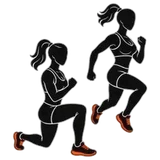
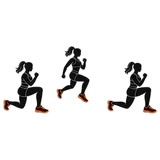
Sieben neue Übungsbilder (185, 255, 283, 286, 314, Floor Press, Jump Lunges mit drei Posen): alle 329 Übungen haben ein Bild (Fassung 2026-10-31-6)

diff --git a/fotos.js b/fotos.js
@@ -1,2 +1,2 @@
 /* Übungsbilder: img/ex/<id>.webp (Vorschau img/ex/t/<id>.webp). Nur Übungen in dieser Liste haben ein Bild; ohne Eintrag bleibt es bei der Strichfigur. */
-var EX_FOTO = {"burpees":1,"jump-squats":1,"mountain-climbers":1,"high-knees":1,"jumping-jacks":1,"skater-jumps":1,"jump-lunges":1,"plank-burpees":1,"burpee-squat-jumps":1,"jump-forward-squats":1,"jump-forward-burpees":1,"frogs":1,"stand-up-jumps":1,"lateral-hops":1,"fast-feet":1,"box-step-ups":1,"sprint-in-place":1,"goblet-squat":1,"kb-swing":1,"db-thruster":1,"romanian-deadlift":1,"db-deadlift":1,"bent-over-row":1,"one-arm-row":1,"shoulder-press":1,"push-press":1,"weighted-reverse-lunge":1,"front-rack-carry":1,"farmer-carry":1,"kb-clean":1,"renegade-row":1,"push-ups":1,"pike-push-ups":1,"triceps-dips":1,"squat-hold":1,"walking-lunges":1,"reverse-lunges":1,"side-lunges":1,"cossack-squats":1,"deep-squats":1,"pistol-assist":1,"plank-steps":1,"bear-crawl":1,"wall-sit":1,"calf-raises":1,"glute-bridge":1,"pull-ups":1,"negative-pull-ups":1,"inverted-rows":1,"superman-hold":1,"reverse-snow-angels":1,"bird-dog":1,"prone-y-raise":1,"prone-t-raise":1,"good-mornings":1,"swimmers":1,"scapular-push-ups":1,"scapular-pull-ups":1,"dead-hang":1,"air-squats":1,"split-squats":1,"bulgarian-split-squats":1,"forward-lunges":1,"single-leg-glute-bridge":1,"lateral-lunge-pulses":1,"plank":1,"side-plank":1,"dead-bug":1,"bicycle-crunches":1,"leg-raises":1,"jackknives":1,"reverse-crunch":1,"side-jackknives":1,"hollow-hold":1,"russian-twists":1,"sit-ups":1,"toe-touches":1,"plank-shoulder-taps":1,"toes-to-bar":1,"triceps-curls":1,"close-grip-push-ups":1,"diamond-push-ups":1,"sphinx-push-ups":1,"arm-circles":1,"leg-press":1,"leg-press-45":1,"leg-extension":1,"leg-curl":1,"adductor-machine":1,"abductor-machine":1,"calf-machine":1,"chest-press-machine":1,"butterfly":1,"pullover":1,"lat-pulldown":1,"row-machine":1,"cable-row":1,"reverse-butterfly":1,"back-extension":1,"shoulder-press-machine":1,"biceps-machine":1,"cable-curl":1,"triceps-pushdown":1,"skull-crusher":1,"ab-crunch-machine":1,"bench-press":1,"barbell-squat":1,"barbell-deadlift":1,"hack-squat":1,"smith-squat":1,"leg-press-single":1,"hip-thrust":1,"glute-kickback-cable":1,"seated-calf":1,"incline-chest-press":1,"cable-crossover":1,"incline-db-press":1,"db-fly":1,"assisted-pullup":1,"close-grip-pulldown":1,"t-bar-row":1,"barbell-row":1,"face-pull":1,"straight-arm-pulldown":1,"lateral-raise":1,"shrugs":1,"hammer-curl":1,"barbell-curl":1,"overhead-cable-triceps":1,"triceps-machine":1,"glute-machine":1,"calf-press":1,"lying-leg-curl":1,"rotary-torso":1,"back-extension-machine":1,"triceps-extension-machine":1,"lateral-raise-machine":1,"cable-lateral-raise":1,"smith-bench-press":1,"assisted-dip":1,"high-row-machine":1,"cable-crunch":1,"cable-pull-through":1,"cable-woodchop":1,"captains-chair":1,"barbell-overhead-press":1,"barbell-rdl":1,"knee-push-ups":1,"single-leg-calf-raise":1,"negative-dips":1,"pallof-press":1,"copenhagen-plank":1,"backpack-row":1,"db-bench-press":1,"db-step-ups":1,"sumo-squat-db":1,"single-leg-rdl":1,"nordic-curl":1,"neck-stretch":1,"chin-tuck":1,"shoulder-stretch":1,"triceps-stretch":1,"biceps-stretch":1,"chest-stretch":1,"wrist-stretch":1,"side-bend":1,"cat-cow":1,"thoracic-rotation":1,"childs-pose":1,"sphinx-stretch":1,"cobra-lift":1,"downward-dog":1,"spinal-twist":1,"forward-fold":1,"hip-flexor-stretch":1,"quad-stretch":1,"hamstring-stretch":1,"calf-stretch":1,"figure-four":1,"pigeon-stretch":1,"butterfly-stretch":1,"worlds-greatest":1,"chin-ups":1,"rung-pull-ups":1,"parallel-bar-dips":1,"support-hold":1,"hanging-knee-raise":1,"hanging-leg-raise":1,"hanging-l-sit":1,"l-sit":1,"windshield-wipers":1,"muscle-ups":1,"monkey-bar-traverse":1,"skin-the-cat":1,"archer-push-ups":1,"pistol-squats":1,"dragon-flags":1,"clap-push-ups":1,"tuck-jumps":1,"burpee-pull-ups":1,"band-standing-row":1,"band-bent-over-row":1,"band-lat-pull-apart":1,"band-pull-down":1,"band-assisted-pull-up":1,"band-push-ups":1,"band-chest-fly":1,"band-reverse-fly":1,"band-chest-fly-up":1,"band-chest-cross":1,"band-lateral-raise":1,"band-upright-row":1,"band-front-raise":1,"band-shoulder-press":1,"band-one-arm-press":1,"band-russian-twist":1,"band-kneeling-twist":1,"band-side-bend":1,"band-kneeling-crunch":1,"band-crunch":1,"band-hammer-curl":1,"band-one-arm-curl":1,"band-biceps-curl":1,"band-concentration-curl":1,"band-overhead-triceps":1,"band-triceps-pressdown":1,"band-side-triceps":1,"band-triceps-kickback":1,"band-overhead-extension":1,"band-clamshell":1,"band-leg-abduction":1,"band-single-leg-deadlift":1,"band-glute-bridge":1,"band-donkey-kick":1,"band-squat":1,"band-prone-leg-curl":1,"band-lunge-squat":1,"band-lying-leg-press":1,"decline-db-bench":1,"around-world-pullover":1,"cable-chest-fly":1,"standing-cable-fly":1,"low-to-high-cable-fly":1,"incline-push-up":1,"deficit-push-up":1,"ring-push-up":1,"wide-grip-lat-pulldown":1,"reverse-grip-lat-pulldown":1,"rope-lat-pulldown":1,"wide-grip-cable-row":1,"underhand-cable-row":1,"one-arm-cable-row":1,"one-arm-high-cable-row":1,"chest-supported-row":1,"cambered-bar-row":1,"neutral-grip-pull-up":1,"meadows-row":1,"seated-db-shoulder-press":1,"arnold-press":1,"cable-shoulder-press":1,"lean-away-lateral-raise":1,"db-front-raise":1,"front-raise-overhead":1,"db-rear-delt-fly":1,"one-arm-rear-delt-fly":1,"seated-rear-delt-fly":1,"upright-row":1,"cuban-press":1,"db-curl":1,"alternating-db-curl":1,"close-grip-ez-curl":1,"high-cable-curl":1,"one-arm-cable-curl":1,"cross-body-hammer-curl":1,"preacher-curl":1,"hammer-preacher-curl":1,"incline-db-curl":1,"spider-curl":1,"concentration-curl":1,"zottman-curl":1,"rope-triceps-pushdown":1,"kneeling-cable-triceps-extension":1,"incline-cable-triceps-extension":1,"lying-cable-triceps-extension":1,"close-grip-db-press":1,"db-skull-crusher":1,"single-arm-skull-crusher":1,"supinated-triceps-extension":1,"ez-jm-press":1,"tate-press":1,"db-bench-squat":1,"db-clean":1,"stiff-leg-deadlift":1,"standing-cable-crunch":1,"cable-lift":1,"cable-twist":1,"cable-reverse-crunch":1,"judo-flip":1,"crunch":1,"crunch-arms-straight":1,"crunch-hands-overhead":1,"cross-body-crunch":1,"bear-plank-rockback-push-up":1,"plank-toe-touch":1,"wrist-curl":1,"reverse-curl":1,"wrist-pronation":1,"wrist-supination":1,"chin-to-chest-stretch":1,"ceiling-look-stretch":1,"cross-jacks":1,"smith-overhead-press":1,"smith-incline-press":1,"smith-bent-over-row":1,"smith-split-squat":1,"smith-hip-thrust":1,"smith-calf-raise":1,"smith-shrug":1,"front-squat":1,"pause-squat":1,"zercher-squat":1,"barbell-good-morning":1,"barbell-push-press":1};
+var EX_FOTO = {"burpees":1,"jump-squats":1,"mountain-climbers":1,"high-knees":1,"jumping-jacks":1,"skater-jumps":1,"jump-lunges":1,"plank-burpees":1,"burpee-squat-jumps":1,"jump-forward-squats":1,"jump-forward-burpees":1,"frogs":1,"stand-up-jumps":1,"lateral-hops":1,"fast-feet":1,"box-step-ups":1,"sprint-in-place":1,"goblet-squat":1,"kb-swing":1,"db-thruster":1,"romanian-deadlift":1,"db-deadlift":1,"bent-over-row":1,"one-arm-row":1,"shoulder-press":1,"push-press":1,"weighted-reverse-lunge":1,"front-rack-carry":1,"farmer-carry":1,"kb-clean":1,"renegade-row":1,"push-ups":1,"pike-push-ups":1,"triceps-dips":1,"squat-hold":1,"walking-lunges":1,"reverse-lunges":1,"side-lunges":1,"cossack-squats":1,"deep-squats":1,"pistol-assist":1,"plank-steps":1,"bear-crawl":1,"wall-sit":1,"calf-raises":1,"glute-bridge":1,"pull-ups":1,"negative-pull-ups":1,"inverted-rows":1,"superman-hold":1,"reverse-snow-angels":1,"bird-dog":1,"prone-y-raise":1,"prone-t-raise":1,"good-mornings":1,"swimmers":1,"scapular-push-ups":1,"scapular-pull-ups":1,"dead-hang":1,"air-squats":1,"split-squats":1,"bulgarian-split-squats":1,"forward-lunges":1,"single-leg-glute-bridge":1,"lateral-lunge-pulses":1,"plank":1,"side-plank":1,"dead-bug":1,"bicycle-crunches":1,"leg-raises":1,"jackknives":1,"reverse-crunch":1,"side-jackknives":1,"hollow-hold":1,"russian-twists":1,"sit-ups":1,"toe-touches":1,"plank-shoulder-taps":1,"toes-to-bar":1,"triceps-curls":1,"close-grip-push-ups":1,"diamond-push-ups":1,"sphinx-push-ups":1,"arm-circles":1,"leg-press":1,"leg-press-45":1,"leg-extension":1,"leg-curl":1,"adductor-machine":1,"abductor-machine":1,"calf-machine":1,"chest-press-machine":1,"butterfly":1,"pullover":1,"lat-pulldown":1,"row-machine":1,"cable-row":1,"reverse-butterfly":1,"back-extension":1,"shoulder-press-machine":1,"biceps-machine":1,"cable-curl":1,"triceps-pushdown":1,"skull-crusher":1,"ab-crunch-machine":1,"bench-press":1,"barbell-squat":1,"barbell-deadlift":1,"hack-squat":1,"smith-squat":1,"leg-press-single":1,"hip-thrust":1,"glute-kickback-cable":1,"seated-calf":1,"incline-chest-press":1,"cable-crossover":1,"incline-db-press":1,"db-fly":1,"assisted-pullup":1,"close-grip-pulldown":1,"t-bar-row":1,"barbell-row":1,"face-pull":1,"straight-arm-pulldown":1,"lateral-raise":1,"shrugs":1,"hammer-curl":1,"barbell-curl":1,"overhead-cable-triceps":1,"triceps-machine":1,"glute-machine":1,"calf-press":1,"lying-leg-curl":1,"rotary-torso":1,"back-extension-machine":1,"triceps-extension-machine":1,"lateral-raise-machine":1,"cable-lateral-raise":1,"smith-bench-press":1,"assisted-dip":1,"high-row-machine":1,"cable-crunch":1,"cable-pull-through":1,"cable-woodchop":1,"captains-chair":1,"barbell-overhead-press":1,"barbell-rdl":1,"knee-push-ups":1,"single-leg-calf-raise":1,"negative-dips":1,"pallof-press":1,"copenhagen-plank":1,"backpack-row":1,"db-bench-press":1,"db-step-ups":1,"sumo-squat-db":1,"single-leg-rdl":1,"nordic-curl":1,"neck-stretch":1,"chin-tuck":1,"shoulder-stretch":1,"triceps-stretch":1,"biceps-stretch":1,"chest-stretch":1,"wrist-stretch":1,"side-bend":1,"cat-cow":1,"thoracic-rotation":1,"childs-pose":1,"sphinx-stretch":1,"cobra-lift":1,"downward-dog":1,"spinal-twist":1,"forward-fold":1,"hip-flexor-stretch":1,"quad-stretch":1,"hamstring-stretch":1,"calf-stretch":1,"figure-four":1,"pigeon-stretch":1,"butterfly-stretch":1,"worlds-greatest":1,"chin-ups":1,"rung-pull-ups":1,"parallel-bar-dips":1,"support-hold":1,"hanging-knee-raise":1,"hanging-leg-raise":1,"hanging-l-sit":1,"l-sit":1,"windshield-wipers":1,"muscle-ups":1,"monkey-bar-traverse":1,"skin-the-cat":1,"archer-push-ups":1,"pistol-squats":1,"dragon-flags":1,"clap-push-ups":1,"tuck-jumps":1,"burpee-pull-ups":1,"band-standing-row":1,"band-bent-over-row":1,"band-lat-pull-apart":1,"band-pull-down":1,"band-assisted-pull-up":1,"band-push-ups":1,"band-chest-fly":1,"band-reverse-fly":1,"band-chest-fly-up":1,"band-chest-cross":1,"band-lateral-raise":1,"band-upright-row":1,"band-front-raise":1,"band-shoulder-press":1,"band-one-arm-press":1,"band-russian-twist":1,"band-kneeling-twist":1,"band-side-bend":1,"band-kneeling-crunch":1,"band-crunch":1,"band-hammer-curl":1,"band-one-arm-curl":1,"band-biceps-curl":1,"band-concentration-curl":1,"band-overhead-triceps":1,"band-triceps-pressdown":1,"band-side-triceps":1,"band-triceps-kickback":1,"band-overhead-extension":1,"band-clamshell":1,"band-leg-abduction":1,"band-single-leg-deadlift":1,"band-glute-bridge":1,"band-donkey-kick":1,"band-squat":1,"band-prone-leg-curl":1,"band-lunge-squat":1,"band-lying-leg-press":1,"decline-db-bench":1,"around-world-pullover":1,"cable-chest-fly":1,"standing-cable-fly":1,"low-to-high-cable-fly":1,"incline-push-up":1,"deficit-push-up":1,"ring-push-up":1,"wide-grip-lat-pulldown":1,"reverse-grip-lat-pulldown":1,"rope-lat-pulldown":1,"wide-grip-cable-row":1,"underhand-cable-row":1,"one-arm-cable-row":1,"one-arm-high-cable-row":1,"chest-supported-row":1,"cambered-bar-row":1,"neutral-grip-pull-up":1,"meadows-row":1,"seated-db-shoulder-press":1,"arnold-press":1,"cable-shoulder-press":1,"lean-away-lateral-raise":1,"db-front-raise":1,"front-raise-overhead":1,"db-rear-delt-fly":1,"one-arm-rear-delt-fly":1,"seated-rear-delt-fly":1,"upright-row":1,"cuban-press":1,"db-curl":1,"alternating-db-curl":1,"close-grip-ez-curl":1,"high-cable-curl":1,"one-arm-cable-curl":1,"cross-body-hammer-curl":1,"preacher-curl":1,"hammer-preacher-curl":1,"incline-db-curl":1,"spider-curl":1,"concentration-curl":1,"zottman-curl":1,"rope-triceps-pushdown":1,"kneeling-cable-triceps-extension":1,"incline-cable-triceps-extension":1,"lying-cable-triceps-extension":1,"close-grip-db-press":1,"db-skull-crusher":1,"single-arm-skull-crusher":1,"supinated-triceps-extension":1,"ez-jm-press":1,"tate-press":1,"db-bench-squat":1,"db-clean":1,"stiff-leg-deadlift":1,"standing-cable-crunch":1,"cable-lift":1,"cable-twist":1,"cable-reverse-crunch":1,"judo-flip":1,"crunch":1,"crunch-arms-straight":1,"crunch-hands-overhead":1,"cross-body-crunch":1,"bear-plank-rockback-push-up":1,"plank-toe-touch":1,"wrist-curl":1,"reverse-curl":1,"wrist-pronation":1,"wrist-supination":1,"chin-to-chest-stretch":1,"ceiling-look-stretch":1,"cross-jacks":1,"smith-overhead-press":1,"smith-incline-press":1,"smith-bent-over-row":1,"smith-split-squat":1,"smith-hip-thrust":1,"smith-calf-raise":1,"smith-shrug":1,"front-squat":1,"pause-squat":1,"zercher-squat":1,"barbell-good-morning":1,"barbell-push-press":1,"commando-pull-ups":1,"alternating-cable-row":1,"standing-concentration-curl":1,"one-arm-cable-triceps-extension":1,"plate-pinch-hold":1,"floor-press":1};

diff --git a/figuren-pruefliste.html b/figuren-pruefliste.html
@@ -13,8 +13,8 @@
 <meta name="apple-mobile-web-app-status-bar-style" content="black-translucent">
 <meta name="apple-mobile-web-app-title" content="BLOC">
 <!-- ?v= gehört zu FASSUNG in sw.js: bei jeder neuen Fassung beide ändern -->
-<link rel="stylesheet" href="./app.css?v=2026-10-31-5">
-<link rel="stylesheet" href="./layout-new.css?v=2026-10-31-5">
+<link rel="stylesheet" href="./app.css?v=2026-10-31-6">
+<link rel="stylesheet" href="./layout-new.css?v=2026-10-31-6">
 </head>
 <style>
 body{ background:#16161a; color:#eee; font:14px/1.4 system-ui,sans-serif; padding:12px; }
@@ -42,34 +42,34 @@ h1{ font-size:20px; margin:4px 0 2px; } .sub{ color:#aaa; margin-bottom:12px; }
 </head>
 <body>
 <div id="app"></div><div id="playerRoot"></div><div id="overlayRoot"></div><nav id="tabbar" class="tabbar hidden"></nav>
-<script src="./texte.js?v=2026-10-31-5"></script>
-<script src="./daten.js?v=2026-10-31-5"></script>
-<script src="./faq.js?v=2026-10-31-5"></script>
-<script src="./js/00-native.js?v=2026-10-31-5"></script>
-<script src="./js/01-basis.js?v=2026-10-31-5"></script>
-<script src="./js/02-bibliothek.js?v=2026-10-31-5"></script>
-<script src="./js/03-router.js?v=2026-10-31-5"></script>
-<script src="./js/04-start.js?v=2026-10-31-5"></script>
-<script src="./js/05-suche.js?v=2026-10-31-5"></script>
-<script src="./js/06-timer-listen.js?v=2026-10-31-5"></script>
-<script src="./js/07-studio.js?v=2026-10-31-5"></script>
-<script src="./js/08-koerperkarte.js?v=2026-10-31-5"></script>
-<script src="./js/09-studio-karte.js?v=2026-10-31-5"></script>
-<script src="./js/10-gemeinsam.js?v=2026-10-31-5"></script>
-<script src="./js/11-bibliothek-seite.js?v=2026-10-31-5"></script>
-<script src="./js/11b-katalog.js?v=2026-10-31-5"></script>
-<script src="./js/12-uebung-statistik.js?v=2026-10-31-5"></script>
-<script src="./js/13-teilen-editor.js?v=2026-10-31-5"></script>
-<script src="./js/14-einfuehrung-sicherung.js?v=2026-10-31-5"></script>
-<script src="./js/16-lauf.js?v=2026-10-31-5"></script>
-<script src="./js/17-aufwaermen-einstellungen.js?v=2026-10-31-5"></script>
-<script src="./js/18-audio.js?v=2026-10-31-5"></script>
-<script src="./js/19-timer-motor.js?v=2026-10-31-5"></script>
-<script src="./js/19a-kalender.js?v=2026-10-31-5"></script>
-<script src="./js/20-walzen-start.js?v=2026-10-31-5"></script>
-<script src="./js/21-koerper.js?v=2026-10-31-5"></script>
-<script src="./js/22-satz-training.js?v=2026-10-31-5"></script>
-<script src="./js/23-protein.js?v=2026-10-31-5"></script>
+<script src="./texte.js?v=2026-10-31-6"></script>
+<script src="./daten.js?v=2026-10-31-6"></script>
+<script src="./faq.js?v=2026-10-31-6"></script>
+<script src="./js/00-native.js?v=2026-10-31-6"></script>
+<script src="./js/01-basis.js?v=2026-10-31-6"></script>
+<script src="./js/02-bibliothek.js?v=2026-10-31-6"></script>
+<script src="./js/03-router.js?v=2026-10-31-6"></script>
+<script src="./js/04-start.js?v=2026-10-31-6"></script>
+<script src="./js/05-suche.js?v=2026-10-31-6"></script>
+<script src="./js/06-timer-listen.js?v=2026-10-31-6"></script>
+<script src="./js/07-studio.js?v=2026-10-31-6"></script>
+<script src="./js/08-koerperkarte.js?v=2026-10-31-6"></script>
+<script src="./js/09-studio-karte.js?v=2026-10-31-6"></script>
+<script src="./js/10-gemeinsam.js?v=2026-10-31-6"></script>
+<script src="./js/11-bibliothek-seite.js?v=2026-10-31-6"></script>
+<script src="./js/11b-katalog.js?v=2026-10-31-6"></script>
+<script src="./js/12-uebung-statistik.js?v=2026-10-31-6"></script>
+<script src="./js/13-teilen-editor.js?v=2026-10-31-6"></script>
+<script src="./js/14-einfuehrung-sicherung.js?v=2026-10-31-6"></script>
+<script src="./js/16-lauf.js?v=2026-10-31-6"></script>
+<script src="./js/17-aufwaermen-einstellungen.js?v=2026-10-31-6"></script>
+<script src="./js/18-audio.js?v=2026-10-31-6"></script>
+<script src="./js/19-timer-motor.js?v=2026-10-31-6"></script>
+<script src="./js/19a-kalender.js?v=2026-10-31-6"></script>
+<script src="./js/20-walzen-start.js?v=2026-10-31-6"></script>
+<script src="./js/21-koerper.js?v=2026-10-31-6"></script>
+<script src="./js/22-satz-training.js?v=2026-10-31-6"></script>
+<script src="./js/23-protein.js?v=2026-10-31-6"></script>
 <script>
 /* Figuren-Prüfliste: alle Übungen mit ihren Figuren (Pose A und B, zweite Ansicht); gelb = unsicher, rot = bekannt unzureichend (noch offen) */
 var UNSICHER = {

diff --git a/index.html b/index.html
@@ -13,8 +13,8 @@
 <meta name="apple-mobile-web-app-status-bar-style" content="black-translucent">
 <meta name="apple-mobile-web-app-title" content="BLOC">
 <!-- ?v= gehört zu FASSUNG in sw.js: bei jeder neuen Fassung beide ändern -->
-<link rel="stylesheet" href="./app.css?v=2026-10-31-5">
-<link rel="stylesheet" href="./layout-new.css?v=2026-10-31-5">
+<link rel="stylesheet" href="./app.css?v=2026-10-31-6">
+<link rel="stylesheet" href="./layout-new.css?v=2026-10-31-6">
 </head>
 <body>
 <div class="glas-bg" aria-hidden="true"><i></i></div>
@@ -23,34 +23,34 @@
 <div id="overlayRoot"></div>
 <nav id="tabbar" class="tabbar hidden" aria-label="Navigation"></nav>
 
-<script src="./texte.js?v=2026-10-31-5"></script>
-<script src="./daten.js?v=2026-10-31-5"></script>
-<script src="./fotos.js?v=2026-10-31-5"></script>
-<script src="./faq.js?v=2026-10-31-5"></script>
-<script src="./js/00-native.js?v=2026-10-31-5"></script>
-<script src="./js/01-basis.js?v=2026-10-31-5"></script>
-<script src="./js/02-bibliothek.js?v=2026-10-31-5"></script>
-<script src="./js/03-router.js?v=2026-10-31-5"></script>
-<script src="./js/04-start.js?v=2026-10-31-5"></script>
-<script src="./js/05-suche.js?v=2026-10-31-5"></script>
-<script src="./js/06-timer-listen.js?v=2026-10-31-5"></script>
-<script src="./js/07-studio.js?v=2026-10-31-5"></script>
-<script src="./js/08-koerperkarte.js?v=2026-10-31-5"></script>
-<script src="./js/09-studio-karte.js?v=2026-10-31-5"></script>
-<script src="./js/10-gemeinsam.js?v=2026-10-31-5"></script>
-<script src="./js/11-bibliothek-seite.js?v=2026-10-31-5"></script>
-<script src="./js/11b-katalog.js?v=2026-10-31-5"></script>
-<script src="./js/12-uebung-statistik.js?v=2026-10-31-5"></script>
-<script src="./js/13-teilen-editor.js?v=2026-10-31-5"></script>
-<script src="./js/14-einfuehrung-sicherung.js?v=2026-10-31-5"></script>
-<script src="./js/16-lauf.js?v=2026-10-31-5"></script>
-<script src="./js/17-aufwaermen-einstellungen.js?v=2026-10-31-5"></script>
-<script src="./js/18-audio.js?v=2026-10-31-5"></script>
-<script src="./js/19-timer-motor.js?v=2026-10-31-5"></script>
-<script src="./js/19a-kalender.js?v=2026-10-31-5"></script>
-<script src="./js/20-walzen-start.js?v=2026-10-31-5"></script>
-<script src="./js/21-koerper.js?v=2026-10-31-5"></script>
-<script src="./js/22-satz-training.js?v=2026-10-31-5"></script>
-<script src="./js/23-protein.js?v=2026-10-31-5"></script>
+<script src="./texte.js?v=2026-10-31-6"></script>
+<script src="./daten.js?v=2026-10-31-6"></script>
+<script src="./fotos.js?v=2026-10-31-6"></script>
+<script src="./faq.js?v=2026-10-31-6"></script>
+<script src="./js/00-native.js?v=2026-10-31-6"></script>
+<script src="./js/01-basis.js?v=2026-10-31-6"></script>
+<script src="./js/02-bibliothek.js?v=2026-10-31-6"></script>
+<script src="./js/03-router.js?v=2026-10-31-6"></script>
+<script src="./js/04-start.js?v=2026-10-31-6"></script>
+<script src="./js/05-suche.js?v=2026-10-31-6"></script>
+<script src="./js/06-timer-listen.js?v=2026-10-31-6"></script>
+<script src="./js/07-studio.js?v=2026-10-31-6"></script>
+<script src="./js/08-koerperkarte.js?v=2026-10-31-6"></script>
+<script src="./js/09-studio-karte.js?v=2026-10-31-6"></script>
+<script src="./js/10-gemeinsam.js?v=2026-10-31-6"></script>
+<script src="./js/11-bibliothek-seite.js?v=2026-10-31-6"></script>
+<script src="./js/11b-katalog.js?v=2026-10-31-6"></script>
+<script src="./js/12-uebung-statistik.js?v=2026-10-31-6"></script>
+<script src="./js/13-teilen-editor.js?v=2026-10-31-6"></script>
+<script src="./js/14-einfuehrung-sicherung.js?v=2026-10-31-6"></script>
+<script src="./js/16-lauf.js?v=2026-10-31-6"></script>
+<script src="./js/17-aufwaermen-einstellungen.js?v=2026-10-31-6"></script>
+<script src="./js/18-audio.js?v=2026-10-31-6"></script>
+<script src="./js/19-timer-motor.js?v=2026-10-31-6"></script>
+<script src="./js/19a-kalender.js?v=2026-10-31-6"></script>
+<script src="./js/20-walzen-start.js?v=2026-10-31-6"></script>
+<script src="./js/21-koerper.js?v=2026-10-31-6"></script>
+<script src="./js/22-satz-training.js?v=2026-10-31-6"></script>
+<script src="./js/23-protein.js?v=2026-10-31-6"></script>
 </body>
 </html>

diff --git a/sw.js b/sw.js
@@ -7,7 +7,7 @@
  */
 
 /* Einzige Stelle für die Versionsnummer - die App fragt sie per postMessage ab (Einstellungen, ganz unten) */
-var FASSUNG = "2026-10-31-5";
+var FASSUNG = "2026-10-31-6";
 var NETZ_WARTEN = 2500;   // ms - so lange wartet der Start höchstens aufs Netz, wenn es eine gespeicherte Fassung gibt
 var SPEICHER = "sporttimer-" + FASSUNG;
 var GRUNDGERUEST = ["./", "./index.html", "./texte.js", "./quellen.html", "./daten.js", "./fotos.js", "./faq.js", "./js/00-native.js", "./js/01-basis.js", "./js/02-bibliothek.js", "./js/03-router.js", "./js/04-start.js", "./js/05-suche.js", "./js/06-timer-listen.js", "./js/07-studio.js", "./js/08-koerperkarte.js", "./js/09-studio-karte.js", "./js/10-gemeinsam.js", "./js/11-bibliothek-seite.js", "./js/11b-katalog.js", "./js/12-uebung-statistik.js", "./js/13-teilen-editor.js", "./js/14-einfuehrung-sicherung.js", "./js/16-lauf.js", "./js/17-aufwaermen-einstellungen.js", "./js/18-audio.js", "./js/19-timer-motor.js", "./js/19a-kalender.js", "./js/20-walzen-start.js", "./js/21-koerper.js", "./js/22-satz-training.js", "./js/23-protein.js", "./img/neu-protein.jpg", "./app.css", "./layout-new.css", "./img/neu-workout.jpg", "./img/neu-mobility.jpg", "./img/neu-timer.jpg", "./img/neu-run.jpg", "./img/neu-builder.webp", "./img/neu-kopf.jpg", "./img/neu-kopf-hell.jpg", "./img/neu-kopf-hell-meer.jpg", "./img/neu-h-halle.jpg", "./img/neu-h-kettlebell.jpg", "./img/neu-h-dehnen.jpg", "./img/neu-d-kalender.jpg", "./img/neu-d-katalog.jpg", "./img/neu-run-bg.jpg", "./img/neu-p-freiluft-meer.jpg", "./img/neu-faq.jpg", "./img/neu-freiluft.jpg", "./img/neu-p-freiluft-meer.jpg", "./img/neu-p-liegestuetz-strand.jpg", "./img/neu-p-liegestuetz-stadt.jpg", "./img/neu-p-studio-hantelreihe.jpg", "./img/neu-p-studio-gewichtsblock.jpg", "./img/neu-p-studio-halle.jpg", "./img/neu-p-frau-latzug.jpg", "./img/neu-p-timer-box.jpg", "./img/neu-p-frau-klimmzug.jpg", "./img/neu-p-frau-kniebeuge.jpg", "./img/neu-p-liegestuetz-feld.jpg", "./img/neu-p-mobility-ausfall.jpg", "./img/neu-p-mobility-sitz.jpg", "./img/neu-p-run-licht.jpg", "./img/neu-p-run-strasse.jpg", "./img/neu-p-run-sw.jpg", "./img/neu-p-freiluft-leiter.jpg", "./manifest.json", "./icon.png", "./icon-180.png", "./privacy.html", "./img/ort-fitnessstudio.jpg", "./img/ort-freiluft.jpg", "./img/start-halle.jpg", "./img/bereich-run.jpg", "./img/bereich-suche.jpg"];

diff --git a/schnelltest.html b/schnelltest.html
@@ -434,9 +434,11 @@
       pruefe(!$(".info-pane-bild").hidden, "Die Wahl Bild bleibt beim erneuten Öffnen nicht erhalten");
       klick('[data-ansicht="figur"]');
       await bis(function () { return $(".info-pane-bild").hidden && !$(".info-pane-fig").hidden; }, 2000, "Zurück zur Figur");
-      zu(); W.openExInfo("commando-pull-ups");
+      zu(); var fotoMerk = W.EX_FOTO["commando-pull-ups"]; delete W.EX_FOTO["commando-pull-ups"];   // alle Übungen haben ein Bild: „ohne Bild“ wird hier nachgestellt
+      W.openExInfo("commando-pull-ups");
       await bis(function () { return $(".info-fig"); }, 2000, "Info ohne Bild");
       pruefe(!$(".media-seg") && !$(".info-pane-bild"), "Ohne Bild darf es keinen Umschalter geben");
+      W.EX_FOTO["commando-pull-ups"] = fotoMerk;
       zu(); W.state.db.settings.infoBild = false;
     }],
     ["Suche: Antippen öffnet erst die Info-Karte, darin einklappbar „Training“ (Satz für Satz | Mit Timer) mit Start darunter; Zurück führt in die Suche", async function () {

diff --git a/VERLAUF.md b/VERLAUF.md
@@ -3,6 +3,11 @@
 Kurze Notizen zu den **letzten Änderungen** (ab 2026-10-05), jeweils mit der Fassung. Ältere Einträge stehen im
 [Archiv](docs/VERLAUF-Archiv.md). Den **aktuellen** Stand beschreibt die [README](README.md).
 
+## 2026-10-31 · Sieben neue Übungsbilder (Fassung 2026-10-31-6)
+
+- **Bilder:** Neu aus den Blättern: 185 Commando Pull-Up, 255 Wechselndes Kabelrudern, 283 Konzentrationscurl im Stand, 286 Einarmiges Trizepsdrücken am Kabel, 314 Scheibenklemme, 025 Floor Press; 007 Jump Lunges neu mit drei Posen. Damit haben alle 329 Übungen ein Bild.
+- **Test:** „Ohne Bild kein Umschalter“ stellt den Fall nach (entfernt kurz den Eintrag in `EX_FOTO`), weil keine Übung mehr ohne Bild ist.
+
 ## 2026-10-31 · Info-Karte der Suche mit „Training“-Block (Fassung 2026-10-31-5)
 
 - **Suche:** In der Info-Karte steht statt des großen Play-Knopfs ein einklappbarer Block **Training**: Satz für Satz | Mit Timer wählen, darunter **Einstellen & starten**. Der Knopf öffnet die Studio-Seite mit allen Einstellungen (Gewicht, Wiederholungen, Pause bzw. Runden, Arbeit, Pause), auch bei Übungen ohne Gewicht. Standard: eingeklappt, die Wahl merkt sich die App (`settings.infoStartAuf`).
